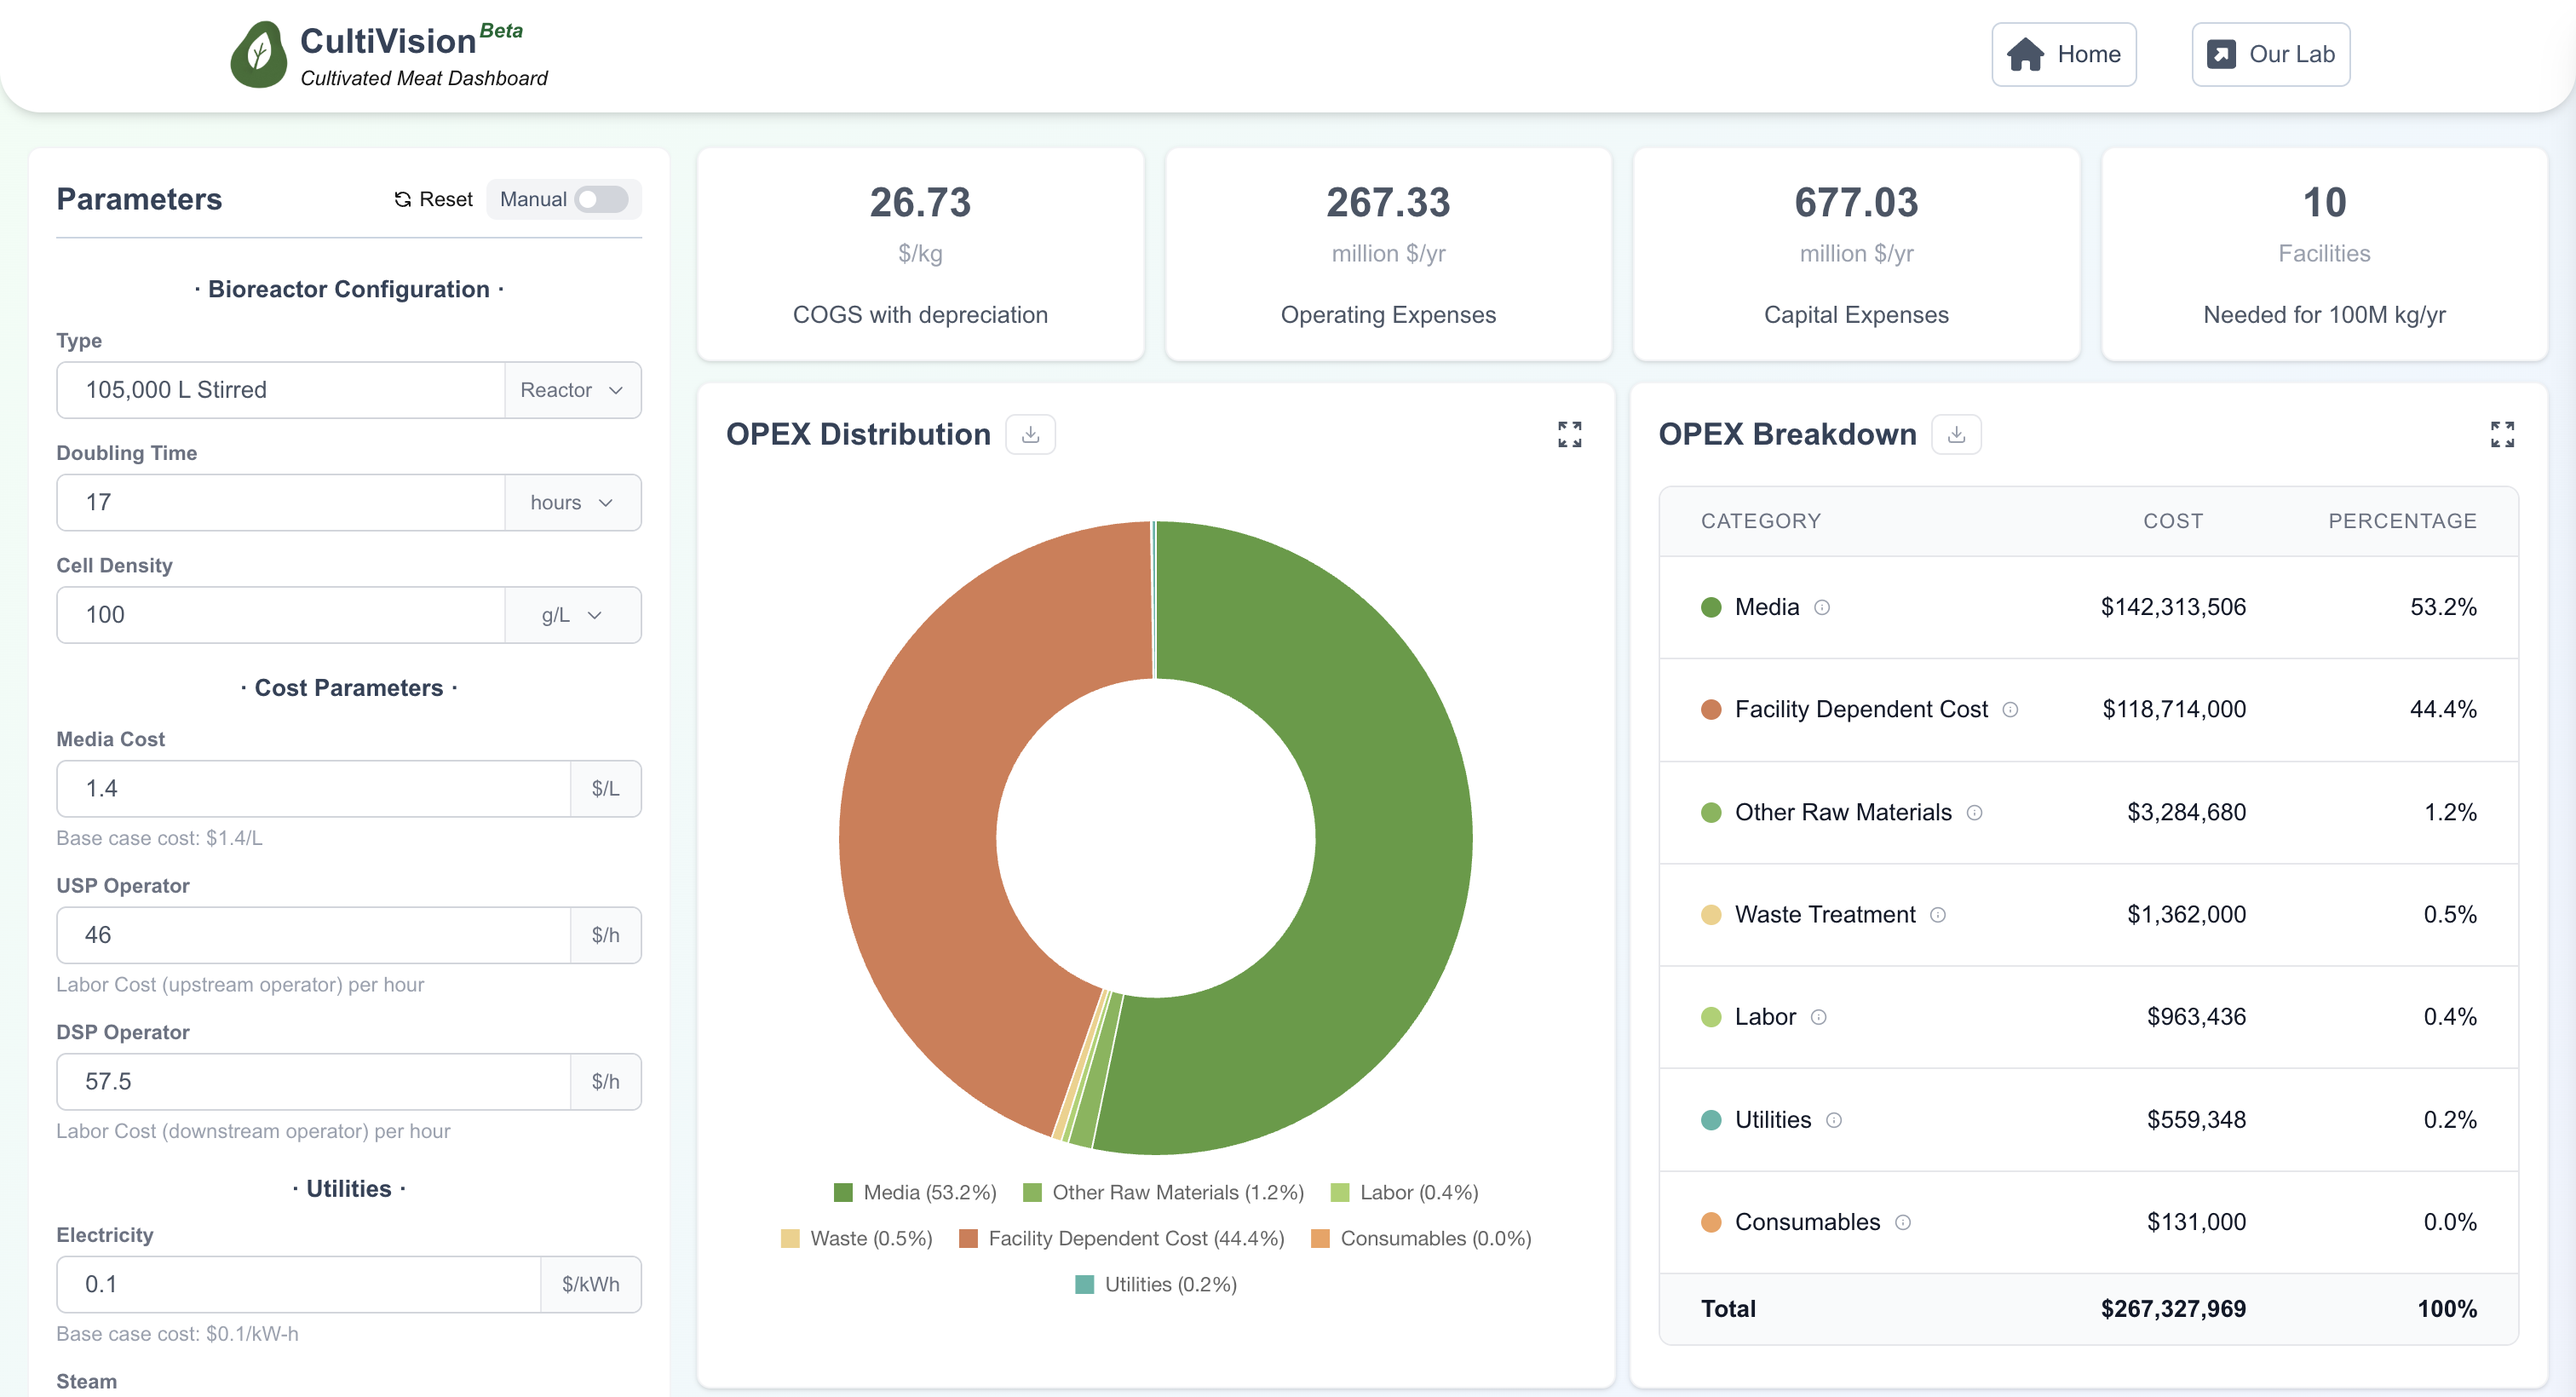
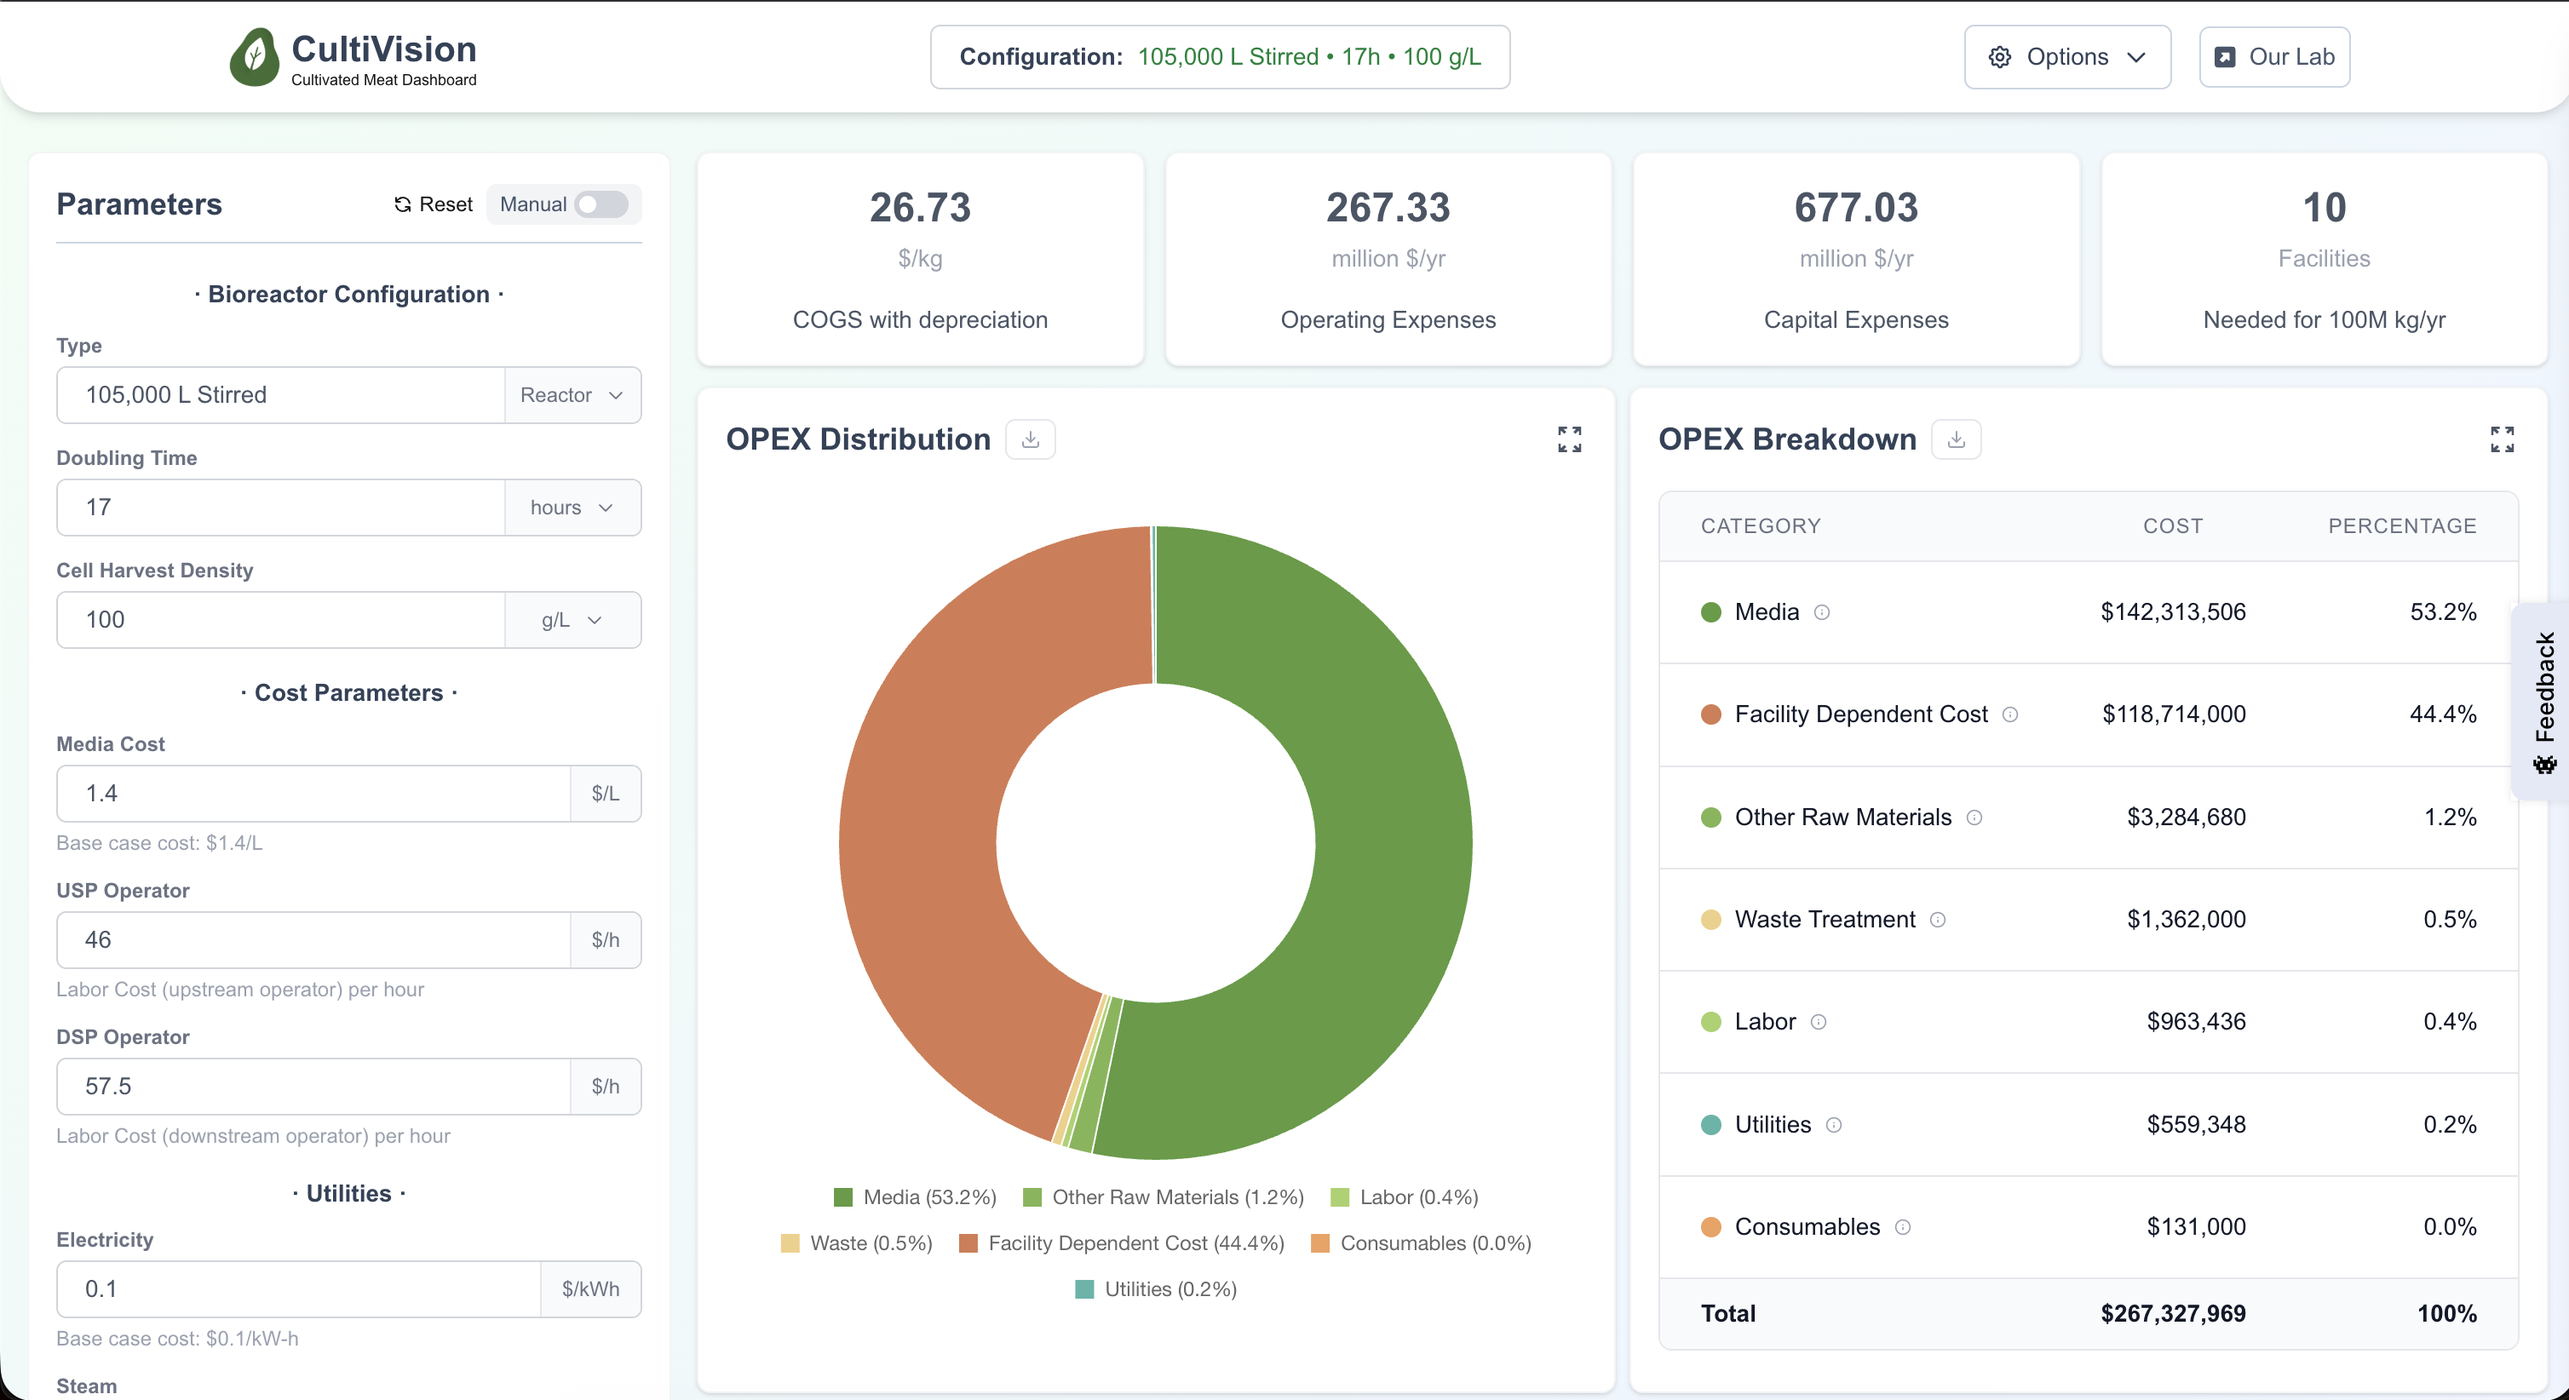
Changes to the hero section and adding a carousel

diff --git a/src/app/page.tsx b/src/app/page.tsx
@@ -201,35 +201,37 @@ const LandingPage = () => {
   return (
     <div className='bg-white'>
       <HomeNavbar />
-      <section className="pt-32 pb-20 relative overflow-hidden bg-gradient-to-br from-slate-900 via-green-900 to-emerald-900 min-h-screen flex flex-col justify-between rounded-b-3xl shadow-lg">
+      <section className="pt-20 md:pt-32 pb-20 relative overflow-hidden bg-gradient-to-br from-slate-900 via-green-900 to-emerald-900 min-h-screen flex flex-col justify-between rounded-b-3xl shadow-lg">
         <div className="absolute inset-0 bg-[radial-gradient(circle_at_50%_50%,rgba(16,185,129,0.1),transparent_50%)]"></div>
         <div className="absolute inset-0 bg-[radial-gradient(circle_at_80%_20%,rgba(52,211,153,0.15),transparent_50%)]"></div>
         <div className="absolute inset-0 bg-[radial-gradient(circle_at_20%_80%,rgba(6,182,212,0.1),transparent_50%)]"></div>
         
-        <div className="flex-grow flex items-center pt-16 justify-center">
-          <div className="max-w-7xl mx-auto px-6 relative z-10 w-full">
-            <div className="grid lg:grid-cols-2 gap-12 items-center">
-              <div>
-                <h1 className="text-5xl lg:text-6xl font-bold text-white leading-tight mb-6">
+        <div className="flex-grow flex items-center pt-12 md:pt-16 justify-center">
+          <div className="max-w-7xl mx-auto px-4 sm:px-6 relative z-10 w-full">
+            <div className="grid lg:grid-cols-2 gap-10 md:gap-16 items-center">
+              <div className="text-center lg:text-left">
+                <h1 className="text-6xl lg:text-6xl font-bold text-white leading-tight mb-6 sm:mb-8">
                   Cultivated Meat
                   <span className="block bg-gradient-to-r from-green-400 to-emerald-400 bg-clip-text text-transparent">Analytics</span>
                 </h1>
-                <p className="text-xl lg:text-2xl text-gray-300 mb-8 leading-relaxed">
+                <p className="text-xl sm:text-2xl lg:text-2xl text-gray-300 mb-8 sm:mb-10 leading-relaxed max-w-2xl mx-auto lg:mx-0">
                   Interactive dashboard for analyzing cultivated meat production costs, bioreactor performance, 
                   and sustainability metrics.
                 </p>
-                <div className="flex flex-col sm:flex-row gap-4">
-                  <button className="bg-gradient-to-r from-green-500 to-emerald-500 text-white px-4 py-2 rounded-lg text-md font-semibold hover:from-green-600 hover:to-emerald-600 transition shadow-lg shadow-green-500/50 hover:shadow-xl hover:shadow-green-500/50 cursor-pointer">
-                    Launch Dashboard
-                  </button>
-                  <button className="bg-white/10 backdrop-blur-sm border-2 border-white/20 text-white px-4 py-2 rounded-lg text-md font-semibold hover:bg-white/20 transition cursor-pointer">
+                <div className="flex flex-col sm:flex-row gap-6 justify-center lg:justify-start max-w-xs sm:max-w-none mx-auto">
+                  <Link href="/dashboard" className="sm:w-auto">
+                    <button className="bg-gradient-to-r from-green-500 to-emerald-500 text-white px-8 py-3 rounded-lg text-lg font-semibold hover:from-green-600 hover:to-emerald-600 transition shadow-lg shadow-green-500/50 hover:shadow-xl hover:shadow-green-500/50 cursor-pointer w-full">
+                      Launch Dashboard
+                    </button>
+                  </Link>
+                  <button className="bg-white/10 backdrop-blur-sm border-2 border-white/20 text-white px-8 py-3 rounded-lg text-lg font-semibold hover:bg-white/20 transition cursor-pointer w-full sm:w-auto">
                     Learn More
                   </button>
                 </div>
               </div>
               
-              <div className="relative">
-                <div className="relative bg-white/5 backdrop-blur-sm rounded-xl shadow-2xl overflow-hidden border border-white/10 transform hover:scale-105 transition-transform duration-500">
+              <div className="relative mt-10 lg:mt-0">
+                <div className="relative bg-white/5 backdrop-blur-sm rounded-xl shadow-2xl overflow-hidden border border-white/10 transform hover:scale-105 transition-transform duration-500 max-w-2xl mx-auto">
                   <div className="bg-gradient-to-r from-gray-900 to-gray-800 px-4 py-3 flex items-center border-b border-white/10">
                     <div className="flex space-x-2">
                       <div className="w-3 h-3 bg-red-500 rounded-full"></div>
@@ -239,15 +241,15 @@ const LandingPage = () => {
                     <div className="ml-4 text-gray-300 text-sm">cultivision.dashboard</div>
                   </div>
                   <Image
-                  src={`${
-                    process.env.NEXT_PUBLIC_BASE_PATH ?? ""
-                  }/images/dashboard-preview.png`}
-                  alt='CultiVision Dashboard Preview'
-                  width={1200}
-                  height={800}
-                  className='w-full h-auto object-contain'
-                  priority
-                  aria-label='CultiVision Dashboard Preview'
+                    src={`${
+                      process.env.NEXT_PUBLIC_BASE_PATH ?? ""
+                    }/images/dashboard-preview.png`}
+                    alt='CultiVision Dashboard Preview'
+                    width={1400}
+                    height={900}
+                    className='w-full h-full object-contain scale-105'
+                    priority
+                    aria-label='CultiVision Dashboard Preview'
                   />
                 </div>
               </div>
@@ -256,7 +258,7 @@ const LandingPage = () => {
         </div>
         
         <div className="flex-grow"></div>
-        <div className="flex-grow"></div>
+        <div className="mt-16 md:mt-24"></div>
         
         <div className="w-full overflow-hidden relative mt-auto">
           <div className="w-full overflow-hidden">
@@ -272,24 +274,24 @@ const LandingPage = () => {
         </div>
       </section>
 
-      <section id='features' className='relative py-20 overflow-hidden'>
+      <section id='features' className='relative py-16 md:py-20 overflow-hidden'>
         <div className='max-w-7xl mx-auto px-4 sm:px-6 lg:px-8 relative z-10'>
           <div className='text-center'>
             <h2 className='text-base text-green-600 font-semibold tracking-wide uppercase animate-fade-in-up'>
               Features
             </h2>
-            <p className='mt-2 text-3xl leading-8 font-extrabold tracking-tight text-gray-900 sm:text-4xl animate-fade-in-up animation-delay-100'>
+            <p className='mt-2 text-2xl sm:text-3xl leading-8 font-extrabold tracking-tight text-gray-900 sm:text-4xl animate-fade-in-up animation-delay-100'>
               Powerful Analytics for Cultivated Meat
             </p>
-            <p className='mt-4 max-w-2xl text-xl text-gray-500 lg:mx-auto animate-fade-in-up animation-delay-200'>
+            <p className='mt-4 max-w-2xl text-lg sm:text-xl text-gray-500 mx-auto animate-fade-in-up animation-delay-200'>
               Comprehensive tools for analyzing production costs, comparing
               bioreactor configurations, and understanding the economics of
               cellular agriculture.
             </p>
           </div>
 
-          <div className='mt-20'>
-            <div className='grid grid-cols-1 gap-12 md:grid-cols-2 lg:grid-cols-3'>
+          <div className='mt-16 md:mt-20'>
+            <div className='grid grid-cols-1 gap-8 sm:gap-12 md:grid-cols-2 lg:grid-cols-3'>
               {FEATURES.map((feature, index) => (
                 <div
                   key={index}
@@ -329,13 +331,13 @@ const LandingPage = () => {
         id='about'
         className='relative py-4 bg-gradient-to-r from-green-100 to-blue-100 overflow-hidden rounded-4xl shadow-lg'
       >
-        <div className='w-full mx-auto p-8 sm:px-6 lg:px-8 relative z-10 flex items-center justify-center'>
+        <div className='w-full mx-auto p-6 sm:p-8 sm:px-6 lg:px-8 relative z-10 flex items-center justify-center'>
           <div className='lg:grid lg:grid-cols-2 lg:gap-16 lg:items-center max-w-5xl'>
-            <div className='animate-fade-in-left'>
-              <h2 className='text-3xl font-extrabold text-gray-800 sm:text-4xl text-center md:text-left'>
+            <div className='animate-fade-in-left text-center lg:text-left'>
+              <h2 className='text-2xl sm:text-3xl font-extrabold text-gray-800 sm:text-4xl'>
                 Research-Grade Insights
               </h2>
-              <p className='mt-4 text-lg text-slate-700 text-center md:text-left'>
+              <p className='mt-4 text-lg text-slate-700'>
                 CultiVision is developed by the McDonald-Nandi Lab at UC Davis,
                 bringing together cutting-edge research in cellular agriculture
                 with practical industry applications.
@@ -432,9 +434,9 @@ const LandingPage = () => {
         </div>
       </section>
 
-      <section className='relative overflow-hidden p-4 mt-16'>
-        <div className='max-w-4xl mx-auto text-center py-8 px-4 sm:py-12 sm:px-6 lg:px-8 relative z-10'>
-          <h2 className='text-3xl font-extrabold text-gray-800 sm:text-4xl'>
+      <section className='relative overflow-hidden p-4 mt-12 md:mt-16'>
+        <div className='max-w-4xl mx-auto text-center py-6 sm:py-8 px-4 sm:px-6 lg:px-8 relative z-10'>
+          <h2 className='text-2xl sm:text-3xl font-extrabold text-gray-800 sm:text-4xl'>
             Ready to analyze your production costs?
           </h2>
           <p className='mt-4 text-lg leading-6 text-gray-700'>
@@ -443,7 +445,7 @@ const LandingPage = () => {
           </p>
           <Link
             href='/dashboard'
-            className='group mt-8 inline-flex items-center justify-center px-8 py-3 border border-transparent text-base font-medium rounded-md text-white bg-gradient-to-r from-green-500 to-green-600 hover:from-green-600 hover:to-green-700 transition-all duration-300 transform hover:-translate-y-1 hover:shadow-lg overflow-hidden'
+            className='group mt-8 inline-flex items-center justify-center px-6 sm:px-8 py-3 border border-transparent text-base font-medium rounded-md text-white bg-gradient-to-r from-green-500 to-green-600 hover:from-green-600 hover:to-green-700 transition-all duration-300 transform hover:-translate-y-1 hover:shadow-lg overflow-hidden'
           >
             <div className='absolute inset-0 bg-white opacity-0 group-hover:opacity-20 transition-opacity duration-300 transform -skew-x-12 -translate-x-full group-hover:translate-x-full' />
             <span className='relative z-10'>Access Dashboard</span>
@@ -452,13 +454,13 @@ const LandingPage = () => {
       </section>
 
       <div
-        className='w-full flex items-center justify-center rounded-3xl bg-white mt-24'
+        className='w-full flex items-center justify-center rounded-3xl bg-white mt-16 md:mt-24'
         style={{
           boxShadow: "rgba(0, 0, 0, 0.35) 0px 5px 15px",
         }}
       >
-        <footer className='flex flex-col gap-6 w-6xl p-8' role='contentinfo'>
-          <div className='grid md:grid-cols-2 gap-8 items-start justify-center w-full'>
+        <footer className='flex flex-col gap-6 w-full p-6 sm:p-8' role='contentinfo'>
+          <div className='grid md:grid-cols-2 gap-8 items-center justify-center w-full'>
             <div className='flex flex-col items-start justify-center gap-8'>
               <Link
                 href={UCD_EXT_LINK}
@@ -560,7 +562,5 @@ const LandingPage = () => {
     </div>
   );
 };
-
-
 
 export default LandingPage;
